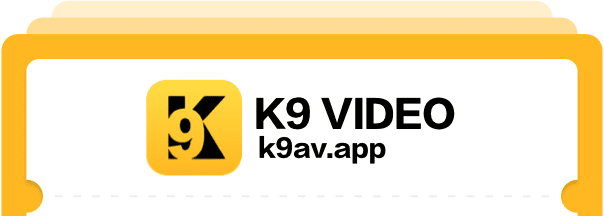
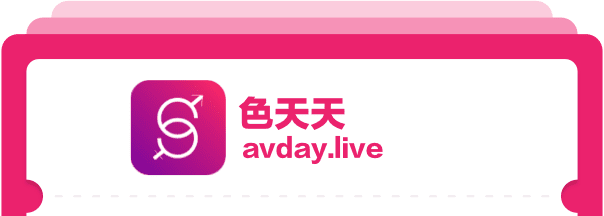
feat-tw2: 站台換圖&app name

diff --git a/apps/app_wl_tw2/web/index.html b/apps/app_wl_tw2/web/index.html
@@ -18,7 +18,7 @@
 
     <meta charset="UTF-8" />
     <meta content="IE=Edge" http-equiv="X-UA-Compatible" />
-    <meta name="description" content="K9 AV 打开你的 AV 新世界" />
+    <meta name="description" content="色天天 打開你的 AV 新世界" />
 
     <!-- iOS meta tags & icons -->
     <meta
@@ -29,16 +29,21 @@
     <meta name="apple-mobile-web-app-status-bar-style" content="black" />
     <meta name="apple-mobile-web-app-title" content="app_wl_tw2" />
 
-    <meta property="og:title" content="K9 AV" />
-    <meta property="og:description" content="K9 AV 打开你的 AV 新世界" />
+    <meta property="og:title" content="色天天" />
+    <meta property="og:description" content="色天天 打開你的 AV 新世界" />
 
     <meta name="theme-color" content="#000000" />
     <link rel="apple-touch-icon" href="icons/Icon-192.png" />
 
     <!-- Favicon -->
-    <link rel="icon" type="image/png" href="favicon.png" />
-
-    <title>K9 AV 打開你的 AV 新世界</title>
+    <link rel="apple-touch-icon" sizes="180x180" href="/apple-touch-icon.png">
+    <link rel="icon" type="image/png" sizes="32x32" href="/favicon-32x32.png">
+    <link rel="icon" type="image/png" sizes="16x16" href="/favicon-16x16.png">
+    <link rel="manifest" href="/site.webmanifest">
+    <meta name="msapplication-TileColor" content="#da532c">
+    <meta name="theme-color" content="#ffffff">
+    
+    <title>色天天 打開你的 AV 新世界</title>
     <link rel="manifest" href="manifest.json" />
     <script>
       // The value below is injected by flutter build, do not touch.
@@ -67,7 +72,7 @@
         display: flex;
         align-items: center;
         justify-content: center;
-        background-color: #001940;
+        background-color: red;
         z-index: 9999;
       }
 
@@ -114,7 +119,7 @@
     </script>
     <!-- SplashScreen -->
     <div class="splash-screen">
-      <img src="/assets/assets/images/splash.png" alt="Splash Screen" />
+      <img src="/assets/assets/images/splash-1.png" alt="Splash Screen" />
     </div>
   </body>
 </html>

diff --git a/apps/app_wl_tw2/lib/widgets/id_card.dart b/apps/app_wl_tw2/lib/widgets/id_card.dart
@@ -121,7 +121,7 @@ class IDCardContentState extends State<IDCardContent> {
                     borderRadius: BorderRadius.circular(14.0),
                   ),
                   child: Text(
-                    '官方地址：k9av.app',
+                    '官方地址：avday.live',
                     style: TextStyle(
                       color: AppColors.colors[ColorKeys.buttonBgPrimary],
                       fontSize: 12,
